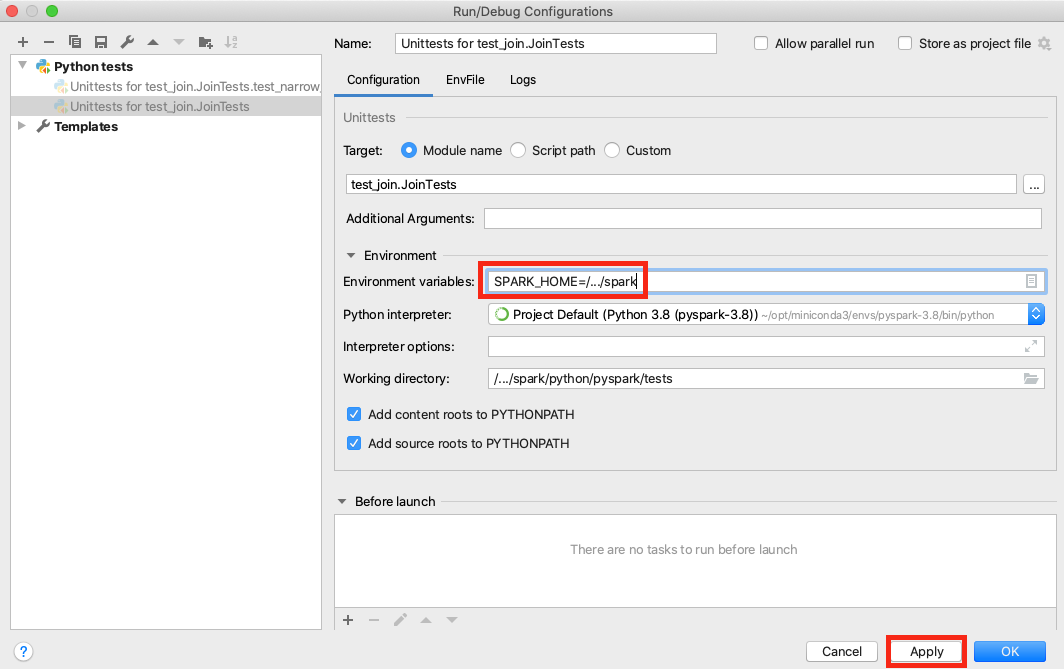
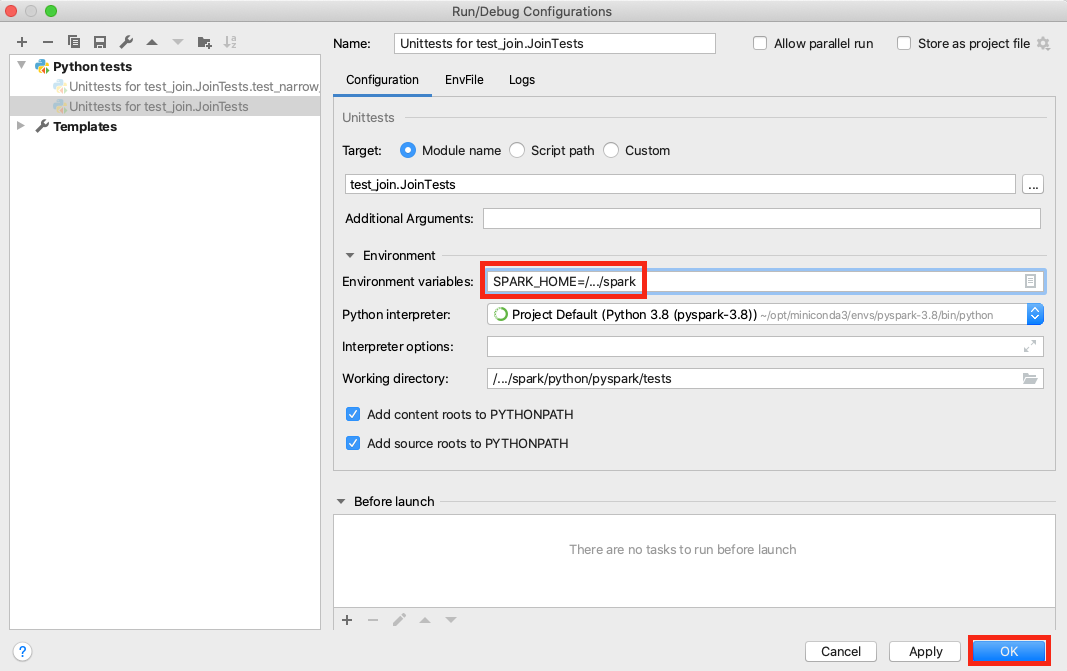
Addressed comments & added link to debugging.rst

diff --git a/python/docs/source/development/setting_ide.rst b/python/docs/source/development/setting_ide.rst
@@ -15,9 +15,9 @@
     specific language governing permissions and limitations
     under the License.
 
-==================
-Setting up PySpark
-==================
+===============
+Setting up IDEs
+===============
 
 This section describes how to setup PySpark on PyCharm.
 It guides step by step to the process of downloading the source code from GitHub and running the test code successfully.
@@ -27,32 +27,32 @@ If you want to download the code from any forked repository rather than spark or
 
 .. code-block:: bash
 
-    $ git clone https://github.com/apache/spark.git
+    git clone https://github.com/apache/spark.git
 
 When the download is completed, go to the ``spark`` directory and build the package.
 SBT build is generally much faster than others. More details about the build are documented `here <https://spark.apache.org/docs/latest/building-spark.html>`_.
 
 .. code-block:: bash
 
-    $ ./build/sbt package
+    build/sbt package
 
 After building is finished, run PyCharm and select the path ``spark/python``.
 
 .. image:: ../../../../docs/img/pycharm-with-pyspark1.png
-    :alt: Setup PyCharm with PySpark
+    :alt: Select the Spark path
 
 
 Let's go to the path ``python/pyspark/tests`` in PyCharm and try to run the any test like ``test_join.py``.
 You might can see the ``KeyError: 'SPARK_HOME'`` because the environment variable has not been set yet.
 
 Go **Run -> Edit Configurations**, and set the environment variables as below.
-Please make sure to specify your own path for ``SPARK_HOME`` rather than ``/.../spark``. After completing the variable, click **Apply** to apply the changes.
+Please make sure to specify your own path for ``SPARK_HOME`` rather than ``/.../spark``. After completing the variable, click **Okay** to apply the changes.
 
 .. image:: ../../../../docs/img/pycharm-with-pyspark2.png
-    :alt: Setup PyCharm with PySpark
+    :alt: Setting up SPARK_HOME
 
 
-Once ``SPARK_HOME`` is set properly, you'll be able to see the **Tests passed** when you run test again.
+Once ``SPARK_HOME`` is set properly, you'll be able to run the tests properly as below:
 
 .. image:: ../../../../docs/img/pycharm-with-pyspark3.png
-    :alt: Setup PyCharm with PySpark
+    :alt: Running tests properly

diff --git a/python/docs/source/development/debugging.rst b/python/docs/source/development/debugging.rst
@@ -35,7 +35,7 @@ with JVM. Profiling and debugging JVM is described at `Useful Developer Tools <h
 
 Note that,
 
-- If you are running locally, you can directly debug the driver side via using your IDE without the remote debug feature.
+- If you are running locally, you can directly debug the driver side via using your IDE without the remote debug feature. Setting PySpark with IDEs is documented `here <setting.html#setting-up-pyspark>`_.
 - *There are many other ways of debugging PySpark applications*. For example, you can remotely debug by using the open source `Remote Debugger <https://www.pydev.org/manual_adv_remote_debugger.html>`_ instead of using PyCharm Professional documented here.
 
 

diff --git a/python/docs/source/development/index.rst b/python/docs/source/development/index.rst
@@ -25,4 +25,4 @@ Development
     contributing
     testing
     debugging
-    setting
+    setting_ide
